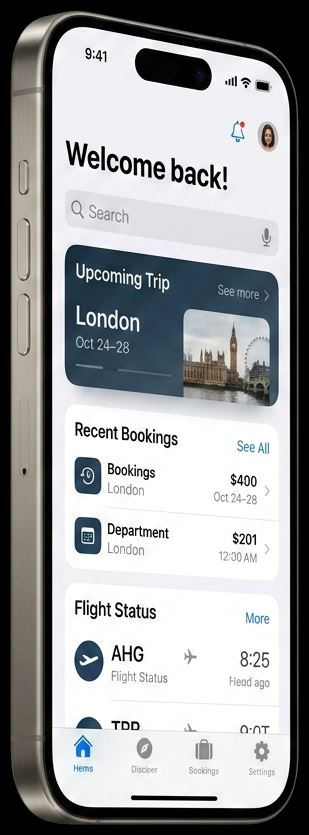
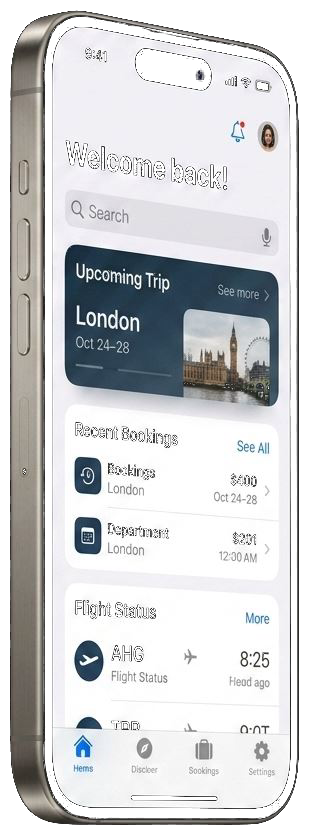
Fix mobile scroll performance, PNG transparency, card responsiveness & CSP image headers

diff --git a/src/components/home/JourneyFlowSection.jsx b/src/components/home/JourneyFlowSection.jsx
@@ -90,8 +90,8 @@ export default function JourneyFlowSection() {
           <div className="lg:col-span-2 grid grid-cols-1 md:grid-cols-2 gap-8 [transform-style:preserve-3d]">
             
             {/* Card 1: Destinations (Postcard Parallax style) */}
-            <div className="glass-card bg-gradient-to-b from-white to-slate-50/50 dark:from-[#080e1e]/90 dark:to-[#040814]/95 border border-slate-150 dark:border-white/[0.05] rounded-[32px] overflow-hidden shadow-[0_15px_40px_rgba(2,8,19,0.03)] dark:shadow-[0_25px_60px_rgba(0,0,0,0.5)] hover:shadow-[0_30px_70px_rgba(2,8,19,0.08)] dark:hover:shadow-[0_35px_75px_rgba(0,0,0,0.6)] transition-all duration-500 flex flex-col justify-between h-[390px] group [transform:translateZ(0px)] hover:[transform:translateZ(10px)]">
-              <div className="p-8 pb-4 space-y-2">
+            <div className="glass-card bg-gradient-to-b from-white to-slate-50/50 dark:from-[#080e1e]/90 dark:to-[#040814]/95 border border-slate-150 dark:border-white/[0.05] rounded-[32px] overflow-hidden shadow-[0_15px_40px_rgba(2,8,19,0.03)] dark:shadow-[0_25px_60px_rgba(0,0,0,0.5)] hover:shadow-[0_30px_70px_rgba(2,8,19,0.08)] dark:hover:shadow-[0_35px_75px_rgba(0,0,0,0.6)] transition-all duration-500 flex flex-col justify-between h-auto lg:h-[390px] group [transform:translateZ(0px)] hover:[transform:translateZ(10px)]">
+              <div className="p-6 sm:p-8 pb-4 space-y-2">
                 <span className="text-[9px] font-mono tracking-widest text-indigo-500 dark:text-indigo-400 font-bold uppercase">01 • EXPLORE</span>
                 <h3 className="font-heading text-2xl font-bold text-luxury-primary dark:text-white tracking-tight">
                   Destinations
@@ -102,7 +102,7 @@ export default function JourneyFlowSection() {
               </div>
 
               {/* Bottom half: Image with overlay pills & Parallax frame */}
-              <div className="relative h-52 w-full px-6 pb-6 mt-auto overflow-hidden">
+              <div className="relative h-48 sm:h-52 w-full px-4 sm:px-6 pb-6 mt-auto overflow-hidden">
                 <div className="relative w-full h-full rounded-2xl overflow-hidden border border-slate-200/60 dark:border-white/10 shadow-lg group-hover:shadow-2xl transition-all duration-500">
                   <ImageWithWatermark
                     src="https://images.unsplash.com/photo-1476514525535-07fb3b4ae5f1?w=800&q=80"
@@ -114,10 +114,10 @@ export default function JourneyFlowSection() {
                   
                   {/* Floating pill categories */}
                   <div className="absolute bottom-4 inset-x-4 flex items-center gap-2 overflow-x-auto no-scrollbar">
-                    <span className="px-3.5 py-1.5 rounded-full bg-white/90 dark:bg-black/75 backdrop-blur-md border border-white/20 dark:border-white/10 text-[9px] font-bold text-luxury-primary dark:text-white shadow-md whitespace-nowrap">
+                    <span className="px-3 py-1 rounded-full bg-white/90 dark:bg-black/75 backdrop-blur-md border border-white/20 dark:border-white/10 text-[9px] font-bold text-luxury-primary dark:text-white shadow-md whitespace-nowrap">
                       Japan (Kyoto)
                     </span>
-                    <span className="px-3.5 py-1.5 rounded-full bg-white/90 dark:bg-black/75 backdrop-blur-md border border-white/20 dark:border-white/10 text-[9px] font-bold text-luxury-primary dark:text-white shadow-md whitespace-nowrap">
+                    <span className="px-3 py-1 rounded-full bg-white/90 dark:bg-black/75 backdrop-blur-md border border-white/20 dark:border-white/10 text-[9px] font-bold text-luxury-primary dark:text-white shadow-md whitespace-nowrap">
                       Iceland (Reykjavik)
                     </span>
                     
@@ -126,7 +126,7 @@ export default function JourneyFlowSection() {
                       <ArrowRight className="w-3.5 h-3.5" />
                     </div>
 
-                    <span className="px-3.5 py-1.5 rounded-full bg-white/90 dark:bg-black/75 backdrop-blur-md border border-white/20 dark:border-white/10 text-[9px] font-bold text-luxury-primary dark:text-white shadow-md whitespace-nowrap">
+                    <span className="px-3 py-1 rounded-full bg-white/90 dark:bg-black/75 backdrop-blur-md border border-white/20 dark:border-white/10 text-[9px] font-bold text-luxury-primary dark:text-white shadow-md whitespace-nowrap">
                       France (Paris)
                     </span>
                   </div>
@@ -135,8 +135,8 @@ export default function JourneyFlowSection() {
             </div>
 
             {/* Card 2: Global Travel Info (Glowing branched sphere style) */}
-            <div className="glass-card bg-gradient-to-b from-white to-slate-50/50 dark:from-[#080e1e]/90 dark:to-[#040814]/95 border border-slate-150 dark:border-white/[0.05] rounded-[32px] overflow-hidden shadow-[0_15px_40px_rgba(2,8,19,0.03)] dark:shadow-[0_25px_60px_rgba(0,0,0,0.5)] hover:shadow-[0_30px_70px_rgba(2,8,19,0.08)] dark:hover:shadow-[0_35px_75px_rgba(0,0,0,0.6)] transition-all duration-500 flex flex-col justify-between h-[390px] group [transform:translateZ(0px)] hover:[transform:translateZ(10px)]">
-              <div className="p-8 pb-4 space-y-2">
+            <div className="glass-card bg-gradient-to-b from-white to-slate-50/50 dark:from-[#080e1e]/90 dark:to-[#040814]/95 border border-slate-150 dark:border-white/[0.05] rounded-[32px] overflow-hidden shadow-[0_15px_40px_rgba(2,8,19,0.03)] dark:shadow-[0_25px_60px_rgba(0,0,0,0.5)] hover:shadow-[0_30px_70px_rgba(2,8,19,0.08)] dark:hover:shadow-[0_35px_75px_rgba(0,0,0,0.6)] transition-all duration-500 flex flex-col justify-between h-auto lg:h-[390px] group [transform:translateZ(0px)] hover:[transform:translateZ(10px)]">
+              <div className="p-6 sm:p-8 pb-4 space-y-2">
                 <span className="text-[9px] font-mono tracking-widest text-purple-500 dark:text-purple-400 font-bold uppercase">02 • TRAVEL INFO</span>
                 <h3 className="font-heading text-2xl font-bold text-luxury-primary dark:text-white tracking-tight">
                   Travel Rules
@@ -147,7 +147,7 @@ export default function JourneyFlowSection() {
               </div>
 
               {/* Branching Avatars/Badges Graphic */}
-              <div className="relative h-48 w-full bg-slate-50/40 dark:bg-black/15 border-t border-slate-100 dark:border-white/5 overflow-hidden">
+              <div className="relative h-44 sm:h-48 w-full bg-slate-50/40 dark:bg-black/15 border-t border-slate-100 dark:border-white/5 overflow-hidden">
                 
                 {/* SVG Connecting Paths with dynamic glowing gradient lines */}
                 <svg className="absolute inset-0 w-full h-full pointer-events-none" viewBox="0 0 100 100" preserveAspectRatio="none" xmlns="http://www.w3.org/2000/svg">
@@ -160,38 +160,38 @@ export default function JourneyFlowSection() {
                 </svg>
 
                 {/* Central Parent Sphere - Ultra-minimalist modern globe */}
-                <div className="absolute top-2 left-1/2 -translate-x-1/2 w-14 h-14 rounded-full border border-slate-200 dark:border-white/10 bg-white dark:bg-[#0b1329] flex items-center justify-center shadow-md dark:shadow-2xl z-10 group/globe">
-                  <div className="w-10 h-10 rounded-full bg-slate-50 dark:bg-slate-900/50 flex items-center justify-center">
-                    <Globe className="w-5 h-5 text-indigo-500 dark:text-indigo-400 group-hover/globe:rotate-12 transition-transform duration-500" />
+                <div className="absolute top-2 left-1/2 -translate-x-1/2 w-12 h-12 sm:w-14 sm:h-14 rounded-full border border-slate-200 dark:border-white/10 bg-white dark:bg-[#0b1329] flex items-center justify-center shadow-md dark:shadow-2xl z-10 group/globe">
+                  <div className="w-9 h-9 sm:w-10 sm:h-10 rounded-full bg-slate-50 dark:bg-slate-900/50 flex items-center justify-center">
+                    <Globe className="w-4 h-4 sm:w-5 sm:h-5 text-indigo-500 dark:text-indigo-400 group-hover/globe:rotate-12 transition-transform duration-500" />
                   </div>
                 </div>
 
                 {/* 5 Child Badges at the bottom - premium, thinned glassmorphism designs */}
-                <div className="absolute bottom-5 inset-x-0 w-full flex justify-between px-3.5">
+                <div className="absolute bottom-4 sm:bottom-5 inset-x-0 w-full flex justify-between px-2 sm:px-3.5">
                   
                   {/* VISA CHECKLIST */}
-                  <div className="w-10 h-10 rounded-full bg-white dark:bg-slate-900 border border-slate-200 dark:border-white/5 flex items-center justify-center shadow-sm hover:border-blue-500/30 hover:scale-110 transition-all duration-300 shrink-0 ml-[1%]" title="Visa Checklists">
-                    <FileCheck className="w-4.5 h-4.5 text-blue-500" strokeWidth={2} />
+                  <div className="w-8 h-8 sm:w-10 sm:h-10 rounded-full bg-white dark:bg-slate-900 border border-slate-200 dark:border-white/5 flex items-center justify-center shadow-sm hover:border-blue-500/30 hover:scale-110 transition-all duration-300 shrink-0" title="Visa Checklists">
+                    <FileCheck className="w-4 h-4 sm:w-4.5 sm:h-4.5 text-blue-500" strokeWidth={2} />
                   </div>
 
                   {/* SAFETY INDEX */}
-                  <div className="w-10 h-10 rounded-full bg-white dark:bg-slate-900 border border-slate-200 dark:border-white/5 flex items-center justify-center shadow-sm hover:border-purple-500/30 hover:scale-110 transition-all duration-300 shrink-0" title="Safety Index">
-                    <Shield className="w-4.5 h-4.5 text-purple-500" strokeWidth={2} />
+                  <div className="w-8 h-8 sm:w-10 sm:h-10 rounded-full bg-white dark:bg-slate-900 border border-slate-200 dark:border-white/5 flex items-center justify-center shadow-sm hover:border-purple-500/30 hover:scale-110 transition-all duration-300 shrink-0" title="Safety Index">
+                    <Shield className="w-4 h-4 sm:w-4.5 sm:h-4.5 text-purple-500" strokeWidth={2} />
                   </div>
 
                   {/* CURRENCY EXCHANGE */}
-                  <div className="w-10 h-10 rounded-full bg-white dark:bg-slate-900 border border-slate-200 dark:border-white/5 flex items-center justify-center shadow-sm hover:border-amber-500/30 hover:scale-110 transition-all duration-300 shrink-0" title="Currency Converter">
-                    <Coins className="w-4.5 h-4.5 text-amber-500" strokeWidth={2} />
+                  <div className="w-8 h-8 sm:w-10 sm:h-10 rounded-full bg-white dark:bg-slate-900 border border-slate-200 dark:border-white/5 flex items-center justify-center shadow-sm hover:border-amber-500/30 hover:scale-110 transition-all duration-300 shrink-0" title="Currency Converter">
+                    <Coins className="w-4 h-4 sm:w-4.5 sm:h-4.5 text-amber-500" strokeWidth={2} />
                   </div>
 
                   {/* LANGUAGE GUIDE */}
-                  <div className="w-10 h-10 rounded-full bg-white dark:bg-slate-900 border border-slate-200 dark:border-white/5 flex items-center justify-center shadow-sm hover:border-emerald-500/30 hover:scale-110 transition-all duration-300 shrink-0" title="Language Guide">
-                    <Languages className="w-4.5 h-4.5 text-emerald-500" strokeWidth={2} />
+                  <div className="w-8 h-8 sm:w-10 sm:h-10 rounded-full bg-white dark:bg-slate-900 border border-slate-200 dark:border-white/5 flex items-center justify-center shadow-sm hover:border-emerald-500/30 hover:scale-110 transition-all duration-300 shrink-0" title="Language Guide">
+                    <Languages className="w-4 h-4 sm:w-4.5 sm:h-4.5 text-emerald-500" strokeWidth={2} />
                   </div>
 
                   {/* TRANSIT GUIDE */}
-                  <div className="w-10 h-10 rounded-full bg-white dark:bg-slate-900 border border-slate-200 dark:border-white/5 flex items-center justify-center shadow-sm hover:border-cyan-500/30 hover:scale-110 transition-all duration-300 shrink-0 mr-[1%]" title="Transit App Logos">
-                    <Navigation className="w-4 h-4 text-cyan-500 transform rotate-45" strokeWidth={2} />
+                  <div className="w-8 h-8 sm:w-10 sm:h-10 rounded-full bg-white dark:bg-slate-900 border border-slate-200 dark:border-white/5 flex items-center justify-center shadow-sm hover:border-cyan-500/30 hover:scale-110 transition-all duration-300 shrink-0" title="Transit App Logos">
+                    <Navigation className="w-3.5 h-3.5 sm:w-4 sm:h-4 text-cyan-500 transform rotate-45" strokeWidth={2} />
                   </div>
 
                 </div>
@@ -199,18 +199,18 @@ export default function JourneyFlowSection() {
             </div>
 
             {/* Card 3: Dynamic Planner (3D Card Stack style) */}
-            <div className="md:col-span-2 glass-card bg-gradient-to-r from-amber-500/10 via-emerald-500/5 to-transparent dark:from-amber-500/[0.03] dark:via-emerald-500/[0.01] border border-slate-150 dark:border-white/[0.05] rounded-[32px] overflow-hidden shadow-[0_15px_40px_rgba(2,8,19,0.03)] dark:shadow-[0_25px_60px_rgba(0,0,0,0.5)] hover:shadow-[0_30px_70px_rgba(2,8,19,0.08)] dark:hover:shadow-[0_35px_75px_rgba(0,0,0,0.6)] transition-all duration-500 flex flex-col md:flex-row justify-between items-center p-8 gap-8 min-h-[290px] group [transform:translateZ(0px)] hover:[transform:translateZ(10px)] text-left">
+            <div className="md:col-span-2 glass-card bg-gradient-to-r from-amber-500/10 via-emerald-500/5 to-transparent dark:from-amber-500/[0.03] dark:via-emerald-500/[0.01] border border-slate-150 dark:border-white/[0.05] rounded-[32px] overflow-hidden shadow-[0_15px_40px_rgba(2,8,19,0.03)] dark:shadow-[0_25px_60px_rgba(0,0,0,0.5)] hover:shadow-[0_30px_70px_rgba(2,8,19,0.08)] dark:hover:shadow-[0_35px_75px_rgba(0,0,0,0.6)] transition-all duration-500 flex flex-col md:flex-row justify-between items-center p-6 sm:p-8 gap-6 sm:gap-8 min-h-[260px] group [transform:translateZ(0px)] hover:[transform:translateZ(10px)] text-left">
               
               <div className="md:w-[55%] space-y-4">
                 <span className="text-[9px] font-mono tracking-widest text-emerald-500 dark:text-emerald-400 font-bold uppercase">03 • PLANNER</span>
-                <h3 className="font-heading text-3xl font-bold text-luxury-primary dark:text-white leading-none tracking-tight">
+                <h3 className="font-heading text-2xl sm:text-3xl font-bold text-luxury-primary dark:text-white leading-none tracking-tight">
                   Easy Planning
                 </h3>
                 <p className="text-slate-500 dark:text-slate-400 text-xs font-light leading-relaxed font-body">
                   Create day-by-day plans. Manage budgets, map walking routes, and keep your schedules handy with an offline checklist.
                 </p>
                 
-                <div className="flex gap-3 pt-2">
+                <div className="flex flex-wrap gap-3 pt-2">
                   <button className="px-5 py-2.5 rounded-xl bg-emerald-600 dark:bg-emerald-500 text-white font-medium text-xs tracking-wide hover:bg-emerald-700 dark:hover:bg-emerald-600 hover:scale-[1.03] hover:shadow-lg hover:shadow-emerald-500/10 active:scale-[0.97] transition-all cursor-pointer">
                     Start Planning
                   </button>
@@ -221,31 +221,31 @@ export default function JourneyFlowSection() {
               </div>
 
               {/* Graphic right: 3D Overlapping paper cards with perspective */}
-              <div className="md:w-[45%] w-full relative h-48 flex items-center justify-center [perspective:800px] [transform-style:preserve-3d]">
+              <div className="md:w-[45%] w-full relative h-44 sm:h-48 flex items-center justify-center [perspective:800px] [transform-style:preserve-3d]">
                 
                 {/* Back Card (Travel Map snippet, tilted back) */}
-                <div className="absolute top-0 right-4 w-[185px] h-[135px] rounded-2xl border border-slate-250 dark:border-white/[0.06] bg-slate-50 dark:bg-[#080f21] shadow-lg p-3 flex flex-col justify-between transform [transform:rotateY(-15deg)_rotateX(10deg)_translateZ(-20px)] opacity-70 group-hover:opacity-90 group-hover:[transform:rotateY(-5deg)_rotateX(5deg)_translateZ(-10px)] transition-all duration-500 select-none">
+                <div className="absolute top-0 right-2 sm:right-4 w-[165px] sm:w-[185px] h-[120px] sm:h-[135px] rounded-2xl border border-slate-250 dark:border-white/[0.06] bg-slate-50 dark:bg-[#080f21] shadow-lg p-3 flex flex-col justify-between transform [transform:rotateY(-15deg)_rotateX(10deg)_translateZ(-20px)] opacity-70 group-hover:opacity-90 group-hover:[transform:rotateY(-5deg)_rotateX(5deg)_translateZ(-10px)] transition-all duration-500 select-none">
                   <div className="flex justify-between items-center">
                     <span className="text-[8px] font-mono text-slate-400">ROUTE GRID</span>
                     <MapPin className="w-3 h-3 text-red-500 animate-pulse" />
                   </div>
                   <div className="h-10 bg-slate-150/70 dark:bg-white/5 rounded-lg overflow-hidden border border-slate-200/50 dark:border-white/5 flex items-center justify-center">
-                    <span className="text-[7.5px] font-mono text-slate-450 dark:text-slate-500">Kyoto Landmark Mapping</span>
+                    <span className="text-[7.5px] font-mono text-slate-455 dark:text-slate-500">Kyoto Landmark Mapping</span>
                   </div>
-                  <span className="text-[9px] text-slate-450 dark:text-slate-400 font-mono">Kyoto route map</span>
+                  <span className="text-[9px] text-slate-455 dark:text-slate-400 font-mono">Kyoto route map</span>
                 </div>
 
                 {/* Front Card (Curly Document checklist with volumetric drop shadow) */}
-                <div className="absolute top-8 right-12 w-[195px] h-[135px] rounded-2xl border border-slate-200 dark:border-white/10 bg-white dark:bg-[#121b38] shadow-[10px_20px_40px_rgba(2,8,19,0.12)] dark:shadow-[10px_20px_55px_rgba(0,0,0,0.5)] p-4 flex flex-col justify-between transform [transform:rotateY(10deg)_rotateX(5deg)_translateZ(20px)] group-hover:[transform:rotateY(2deg)_rotateX(2deg)_translateZ(30px)] transition-all duration-500 border-l-[3.5px] border-l-emerald-500">
+                <div className="absolute top-6 sm:top-8 right-8 sm:right-12 w-[175px] sm:w-[195px] h-[120px] sm:h-[135px] rounded-2xl border border-slate-200 dark:border-white/10 bg-white dark:bg-[#121b38] shadow-[10px_20px_40px_rgba(2,8,19,0.12)] dark:shadow-[10px_20px_55px_rgba(0,0,0,0.5)] p-3.5 sm:p-4 flex flex-col justify-between transform [transform:rotateY(10deg)_rotateX(5deg)_translateZ(20px)] group-hover:[transform:rotateY(2deg)_rotateX(2deg)_translateZ(30px)] transition-all duration-500 border-l-[3.5px] border-l-emerald-500">
                   <div className="flex items-center gap-2 border-b border-slate-100 dark:border-white/5 pb-2">
-                    <div className="w-5 h-5 rounded-full bg-emerald-100 dark:bg-emerald-500/15 flex items-center justify-center shrink-0">
-                      <Check className="w-3 h-3 text-emerald-500" />
+                    <div className="w-4.5 h-4.5 sm:w-5 sm:h-5 rounded-full bg-emerald-100 dark:bg-emerald-500/15 flex items-center justify-center shrink-0">
+                      <Check className="w-2.5 h-2.5 sm:w-3 sm:h-3 text-emerald-500" />
                     </div>
-                    <span className="text-[9px] font-heading font-extrabold text-luxury-primary dark:text-white uppercase tracking-wider">Itinerary Checklist</span>
+                    <span className="text-[8.5px] sm:text-[9px] font-heading font-extrabold text-luxury-primary dark:text-white uppercase tracking-wider">Itinerary Checklist</span>
                   </div>
                   
                   {/* Checklist lines */}
-                  <div className="space-y-1.5 text-[8.5px] text-slate-655 dark:text-slate-350">
+                  <div className="space-y-1 sm:space-y-1.5 text-[8px] sm:text-[8.5px] text-slate-655 dark:text-slate-350">
                     <div className="flex items-center gap-1.5">
                       <span className="w-1.5 h-1.5 rounded-full bg-emerald-500 shrink-0" />
                       <span className="truncate">Confirm Kyoto hotel booking</span>
@@ -266,7 +266,7 @@ export default function JourneyFlowSection() {
           </div>
 
           {/* Right Area: Tall Glass Smartphone Mockup Card */}
-          <div className="lg:col-span-1 glass-card bg-gradient-to-b from-white to-slate-50/50 dark:from-[#080e1e]/90 dark:to-[#040814]/95 border border-slate-150 dark:border-white/[0.05] rounded-[32px] overflow-hidden shadow-[0_15px_40px_rgba(2,8,19,0.03)] dark:shadow-[0_25px_60px_rgba(0,0,0,0.5)] hover:shadow-[0_30px_70px_rgba(2,8,19,0.08)] dark:hover:shadow-[0_35px_75px_rgba(0,0,0,0.6)] transition-all duration-500 flex flex-col justify-between min-h-[600px] h-full p-8 relative group [transform:translateZ(0px)] hover:[transform:translateZ(10px)]">
+          <div className="lg:col-span-1 glass-card bg-gradient-to-b from-white to-slate-50/50 dark:from-[#080e1e]/90 dark:to-[#040814]/95 border border-slate-150 dark:border-white/[0.05] rounded-[32px] overflow-hidden shadow-[0_15px_40px_rgba(2,8,19,0.03)] dark:shadow-[0_25px_60px_rgba(0,0,0,0.5)] hover:shadow-[0_30px_70px_rgba(2,8,19,0.08)] dark:hover:shadow-[0_35px_75px_rgba(0,0,0,0.6)] transition-all duration-500 flex flex-col justify-between min-h-0 lg:min-h-[600px] h-auto lg:h-full p-6 sm:p-8 relative group [transform:translateZ(0px)] hover:[transform:translateZ(10px)]">
             
             {/* Phone Screen Bevel Glass reflection overlay */}
             <div className="absolute inset-0 bg-gradient-to-tr from-transparent via-white/[0.015] dark:via-white/[0.007] to-transparent transform -translate-x-full group-hover:translate-x-full duration-1000 ease-out pointer-events-none" />

diff --git a/src/components/home/HeroSection.jsx b/src/components/home/HeroSection.jsx
@@ -216,6 +216,8 @@ export default function HeroSection() {
 
     const handleScroll = () => {
       if (!active) return;
+      // Skip heavy parallax calculations on mobile screens (<768px) for lag-free touch scrolling
+      if (window.innerWidth < 768) return;
       if (frameId) cancelAnimationFrame(frameId);
       
       frameId = requestAnimationFrame(() => {
@@ -1043,11 +1045,14 @@ export default function HeroSection() {
               ].map((partner) => (
                 <div key={`a-${partner.domain}`} className="flex items-center gap-2.5 px-2 select-none shrink-0 group/item cursor-default">
                   <img 
-                    src={`https://img.logo.dev/${partner.domain}?token=${import.meta.env.VITE_LOGO_DEV_PUBLISHABLE_KEY}&size=60&format=png`}
+                    src={`https://img.logo.dev/${partner.domain}?token=${import.meta.env.VITE_LOGO_DEV_PUBLISHABLE_KEY || 'pk_bYH-YceiR-KgJx79TnahZg'}&size=60&format=png`}
                     alt={partner.name}
                     className="h-5 w-5 sm:h-6 sm:w-6 object-contain filter grayscale opacity-50 group-hover/item:grayscale-0 group-hover/item:opacity-100 transition-all duration-500"
                     loading="lazy"
                     draggable={false}
+                    onError={(e) => {
+                      e.currentTarget.style.display = 'none';
+                    }}
                   />
                   <span className="text-[12px] sm:text-[13px] font-semibold text-slate-400 dark:text-slate-555 group-hover/item:text-slate-700 dark:group-hover/item:text-slate-200 transition-colors duration-500 tracking-wide">
                     {partner.name}
@@ -1068,11 +1073,14 @@ export default function HeroSection() {
               ].map((partner) => (
                 <div key={`b-${partner.domain}`} className="flex items-center gap-2.5 px-2 select-none shrink-0 group/item cursor-default">
                   <img 
-                    src={`https://img.logo.dev/${partner.domain}?token=${import.meta.env.VITE_LOGO_DEV_PUBLISHABLE_KEY}&size=60&format=png`}
+                    src={`https://img.logo.dev/${partner.domain}?token=${import.meta.env.VITE_LOGO_DEV_PUBLISHABLE_KEY || 'pk_bYH-YceiR-KgJx79TnahZg'}&size=60&format=png`}
                     alt={partner.name}
                     className="h-5 w-5 sm:h-6 sm:w-6 object-contain filter grayscale opacity-50 group-hover/item:grayscale-0 group-hover/item:opacity-100 transition-all duration-500"
                     loading="lazy"
                     draggable={false}
+                    onError={(e) => {
+                      e.currentTarget.style.display = 'none';
+                    }}
                   />
                   <span className="text-[12px] sm:text-[13px] font-semibold text-slate-400 dark:text-slate-555 group-hover/item:text-slate-700 dark:group-hover/item:text-slate-200 transition-colors duration-500 tracking-wide">
                     {partner.name}

diff --git a/src/components/ImageWithWatermark.jsx b/src/components/ImageWithWatermark.jsx
@@ -11,20 +11,31 @@ export default function ImageWithWatermark({
 }) {
   const [loaded, setLoaded] = useState(false);
   const [error, setError] = useState(false);
+  const [currentSrc, setCurrentSrc] = useState(src);
   const imgRef = useRef(null);
 
   // Reset loaded state when src changes
   useEffect(() => {
+    setCurrentSrc(src);
     setLoaded(false);
     setError(false);
   }, [src]);
 
   // Handle cached image completes immediately before event registration
   useEffect(() => {
-    if (imgRef.current && imgRef.current.complete) {
+    if (imgRef.current && imgRef.current.complete && imgRef.current.naturalWidth > 0) {
       setLoaded(true);
     }
-  }, [src]);
+  }, [currentSrc]);
+
+  const handleError = () => {
+    if (currentSrc && !currentSrc.includes('images.unsplash.com')) {
+      // Automatic fallback to clean Unsplash travel photo
+      setCurrentSrc('https://images.unsplash.com/photo-1476514525535-07fb3b4ae5f1?w=800&q=80');
+    } else {
+      setError(true);
+    }
+  };
 
   const hasPosition = /absolute|relative|fixed/.test(wrapperClassName);
   const positionClass = hasPosition ? '' : 'relative';
@@ -68,7 +79,7 @@ export default function ImageWithWatermark({
 
       {/* Error state */}
       {error && (
-        <div className="absolute inset-0 flex flex-col items-center justify-center bg-slate-50 dark:bg-slate-900 text-slate-400 text-xs">
+        <div className="absolute inset-0 flex flex-col items-center justify-center bg-slate-100 dark:bg-slate-900 text-slate-400 text-xs">
           <Compass className="w-5 h-5 mb-1 animate-bounce text-slate-350 dark:text-slate-650" />
           <span>Image Unavailable</span>
         </div>
@@ -77,13 +88,13 @@ export default function ImageWithWatermark({
       {/* The Actual Image */}
       <img
         ref={imgRef}
-        src={src || 'https://images.unsplash.com/photo-1476514525535-07fb3b4ae5f1?w=600&q=80'}
+        src={currentSrc || 'https://images.unsplash.com/photo-1476514525535-07fb3b4ae5f1?w=800&q=80'}
         alt={alt}
-        className={`${className} transition-all duration-700 ${
+        className={`${className} transition-all duration-500 ${
           loaded ? 'opacity-100 scale-100 blur-0' : 'opacity-0 scale-105 blur-md'
         }`}
         onLoad={() => setLoaded(true)}
-        onError={() => setError(true)}
+        onError={handleError}
       />
     </div>
   );

diff --git a/src/components/home/ImmersiveDiscoverySection.jsx b/src/components/home/ImmersiveDiscoverySection.jsx
@@ -255,7 +255,7 @@ export default function ImmersiveDiscoverySection() {
             {/* CARD 1 — DISCOVER */}
             <TiltCard 
               glowColor="blue"
-              className="aspect-square flex flex-col justify-between shadow-[0_20px_45px_-12px_rgba(0,0,0,0.6)] dark:shadow-[0_25px_60px_-15px_rgba(0,0,0,0.95)]" 
+              className="min-h-[360px] sm:min-h-[400px] md:aspect-square flex flex-col justify-between p-5 sm:p-6 shadow-[0_20px_45px_-12px_rgba(0,0,0,0.6)] dark:shadow-[0_25px_60px_-15px_rgba(0,0,0,0.95)]" 
               hoverGlowClass="hover:shadow-[0_30px_70px_-10px_rgba(27,61,232,0.45)] dark:hover:shadow-[0_35px_80px_-10px_rgba(27,61,232,0.7)]"
               style={{ background: 'linear-gradient(135deg, #0A0F1E 30%, #1B3DE8 120%)' }}
             >
@@ -335,7 +335,7 @@ export default function ImmersiveDiscoverySection() {
             {/* CARD 2 — UNDERSTAND */}
             <TiltCard 
               glowColor="purple"
-              className="aspect-square flex flex-col justify-between shadow-[0_20px_45px_-12px_rgba(0,0,0,0.6)] dark:shadow-[0_25px_60px_-15px_rgba(0,0,0,0.95)]" 
+              className="min-h-[360px] sm:min-h-[400px] md:aspect-square flex flex-col justify-between p-5 sm:p-6 shadow-[0_20px_45px_-12px_rgba(0,0,0,0.6)] dark:shadow-[0_25px_60px_-15px_rgba(0,0,0,0.95)]" 
               hoverGlowClass="hover:shadow-[0_30px_70px_-10px_rgba(45,27,232,0.45)] dark:hover:shadow-[0_35px_80px_-10px_rgba(45,27,232,0.7)]"
               style={{ background: 'linear-gradient(135deg, #0A0F1E 30%, #2D1BE8 120%)' }}
             >
@@ -419,7 +419,7 @@ export default function ImmersiveDiscoverySection() {
             {/* CARD 3 — PLAN */}
             <TiltCard 
               glowColor="cyan"
-              className="aspect-square flex flex-col justify-between shadow-[0_20px_45px_-12px_rgba(0,0,0,0.6)] dark:shadow-[0_25px_60px_-15px_rgba(0,0,0,0.95)]" 
+              className="min-h-[360px] sm:min-h-[400px] md:aspect-square flex flex-col justify-between p-5 sm:p-6 shadow-[0_20px_45px_-12px_rgba(0,0,0,0.6)] dark:shadow-[0_25px_60px_-15px_rgba(0,0,0,0.95)]" 
               hoverGlowClass="hover:shadow-[0_30px_70px_-10px_rgba(13,47,191,0.45)] dark:hover:shadow-[0_35px_80px_-10px_rgba(13,47,191,0.7)]"
               style={{ background: 'linear-gradient(135deg, #0A0F1E 30%, #0D2FBF 120%)' }}
             >

diff --git a/src/components/ui/cobe-globe.jsx b/src/components/ui/cobe-globe.jsx
@@ -112,13 +112,23 @@ export function Globe({
     let globe = null
     let animationId
     let phi = 0
-    let ro = null
+    let isVisible = true
+
+    // Pause WebGL rendering loop when canvas is offscreen to save mobile battery and prevent scroll lag
+    const observer = new IntersectionObserver(
+      ([entry]) => {
+        isVisible = entry.isIntersecting
+      },
+      { threshold: 0.05 }
+    )
+    observer.observe(canvas)
 
     function init() {
       const width = canvas.offsetWidth
       if (width === 0 || globe) return
 
-      const dpr = Math.min(window.devicePixelRatio || 1, 2)
+      const isMobile = window.innerWidth < 768
+      const dpr = isMobile ? 1 : Math.min(window.devicePixelRatio || 1, 1.5)
       const cfg = configRef.current
       try {
         globe = createGlobe(canvas, {
@@ -129,7 +139,7 @@ export function Globe({
           theta: cfg.theta,
           dark: cfg.dark,
           diffuse: cfg.diffuse,
-          mapSamples: cfg.mapSamples,
+          mapSamples: isMobile ? 8000 : cfg.mapSamples,
           mapBrightness: cfg.mapBrightness,
           baseColor: cfg.baseColor,
           markerColor: cfg.markerColor,
@@ -157,6 +167,10 @@ export function Globe({
 
       function animate() {
         if (!globe) return
+        if (!isVisible) {
+          animationId = requestAnimationFrame(animate)
+          return
+        }
         const currentCfg = configRef.current
         if (!isPausedRef.current) {
           phi += currentCfg.speed
@@ -223,6 +237,7 @@ export function Globe({
     }
 
     return () => {
+      if (observer) observer.disconnect()
       if (ro) ro.disconnect()
       if (animationId) cancelAnimationFrame(animationId)
       if (globe) {
